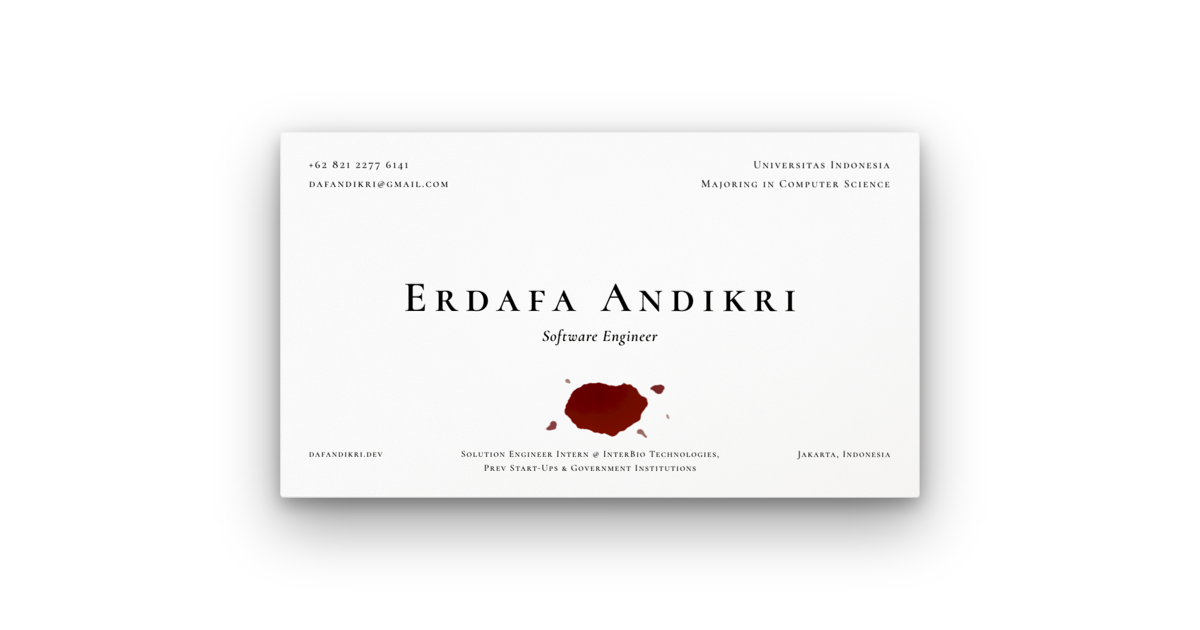
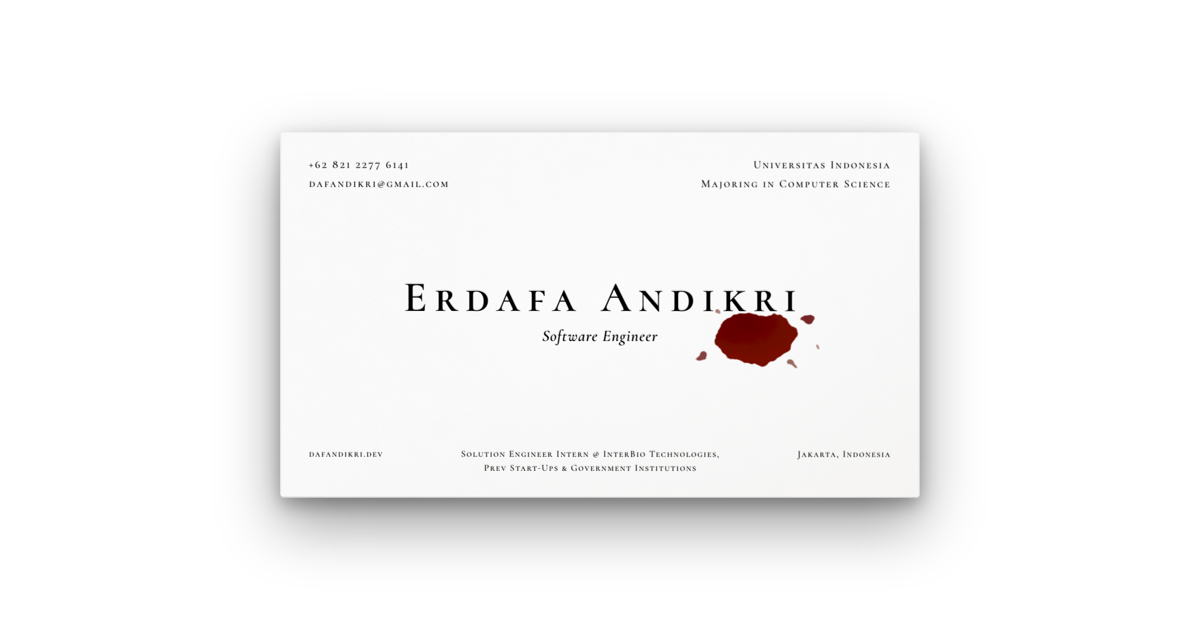
feat(card): move the blood beside the role line, right of centre
The stain now sits in the empty quarter under the tail of the name and
level with "Software Engineer", rather than centred in the band below.

Anchored from the bottom rather than the top. The container is much
taller than the stain — most of its height is the runway the drop falls
down — and the pool sits around 52% of the way into it, so positioning
from the top makes the pool's resting place depend on how tall the name
renders. Anchoring from the bottom puts it on the role's line directly.
Getting that backwards is what first parked the stain on top of
"ANDIKRI".

Narrow screens shift it further right and keep it smaller, so it clears
both the role and the stacked footer.

Changed region(s): [[0.5858, 0.4825, 0.6783, 0.6032], [0.4625, 0.6032, 0.555, 0.6937]]

diff --git a/src/components/BloodDrop.css b/src/components/BloodDrop.css
@@ -9,13 +9,22 @@
 
 .blood {
   position: absolute;
-  /* Sits in the empty band between the role line and the footer rule. */
-  top: 100%;
-  left: 50%;
+  /*
+   * Off to the right, level with the role line — the empty quarter of the card
+   * beside "Software Engineer". Anchored from the bottom so the pool sits on
+   * that line regardless of how tall the name above it renders.
+   */
+  /*
+   * The container is much taller than the stain — most of its height is the
+   * runway the drop falls down — and the pool sits around 52% of the way down
+   * it. The offset is set so that point lands on the role's line rather than
+   * up in the name.
+   */
+  bottom: -3.9em;
+  left: 77%;
   width: 15.5em;
   height: 9.3em;
-  /* Nudged off dead centre: a falling drop would not land perfectly aligned. */
-  transform: translate(-46%, 0.9em);
+  transform: translate(-50%, 0);
   pointer-events: none;
   /*
    * Multiply lets the paper grain read *through* the stain. Painted opaquely it
@@ -148,7 +157,9 @@
   .blood {
     width: 8.2em;
     height: 4.9em;
-    transform: translate(-46%, 0.1em);
+    bottom: -2em;
+    left: 80%;
+    transform: translate(-50%, 0);
   }
   .blood__drip {
     width: 0.5em;

diff --git a/docs/superpowers/specs/2026-08-03-blood-drop-design.md b/docs/superpowers/specs/2026-08-03-blood-drop-design.md
@@ -70,13 +70,20 @@ A few sparse, asymmetric satellite specks sell the impact.
 
 ## Placement
 
-Anchored to `.card__identity` rather than to the card edge, so it tracks the name.
-Centred under the name but nudged off dead-centre, because a falling drop would
-not land perfectly aligned.
+Off to the right, under the tail of the name and level with the role line — the
+empty quarter of the card beside "Software Engineer". Anchored to
+`.card__identity` rather than to the card edge, so it tracks the name.
 
-On narrow screens the footer wraps to three stacked lines and eats most of the
-band the stain sits in; at desktop proportions it drips onto the domain. It
-therefore shrinks and tucks up close under the role line below 36rem.
+Anchored from the *bottom* rather than the top. The container is much taller than
+the stain, because most of its height is the runway the drop falls down, and the
+pool sits around 52% of the way into it. Positioning from the top makes that
+offset depend on how tall the name renders; positioning from the bottom puts the
+pool on the role's line directly. Getting this wrong is what first parked the
+stain on top of "ANDIKRI".
+
+On narrow screens the footer wraps to three stacked lines and eats the band below,
+so the stain shrinks and shifts further right to stay clear of both the role and
+the domain.
 
 ## Structure
 
